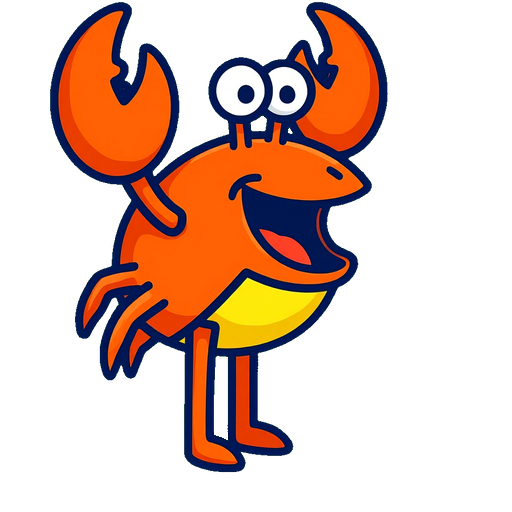
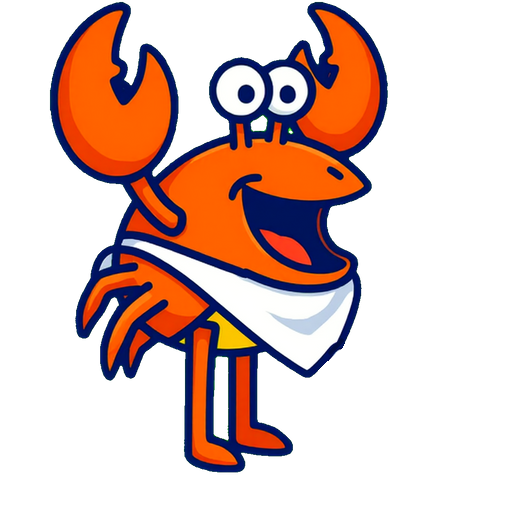
Gordeka : foulards de Kaio (variante 2) et Karramarro (bandana, nœud retiré à la main)
Claude-Session: https://claude.ai/code/session_01LXFHAN75rdxEcdsy5wKHqu

diff --git a/tools/gordeka/karramarro_noeud.py b/tools/gordeka/karramarro_noeud.py
@@ -1,0 +1,68 @@
+#!/usr/bin/env python3
+"""Karramarro (2026-10-20, Julien : « le foulard du 2 a un nœud bizarre ») : pixelforge ne corrige pas le
+nœud par retouche. On repart du foulard n° 2 (tools/rd/out/karramarro/gk2d/foulard/image_00.png), on
+efface le pendant et on dessine un petit nœud rond propre avec deux pointes, au trait du perso.
+
+  karramarro_noeud.py   → assets/gordeka/persos/karramarro/modele.png
+"""
+import os
+
+from PIL import Image, ImageDraw
+
+HERE = os.path.dirname(os.path.abspath(__file__))
+ROOT = os.path.normpath(os.path.join(HERE, "..", ".."))
+SRC = os.path.join(ROOT, "tools", "rd", "out", "karramarro", "gk2d", "foulard", "image_00.png")
+DST = os.path.join(ROOT, "assets", "gordeka", "persos", "karramarro", "modele.png")
+
+ZONE = (318, 336, 380, 424)          # zone nettoyée autour de l'ancien nœud (px de l'image 512)
+NOEUD = (337, 349)                   # coin du foulard, où l'on pose le nouveau nœud
+CONTOUR, BLANC, OMBRE = (0, 12, 64, 255), (255, 255, 255, 255), (196, 210, 230, 255)
+SUR = 8
+
+
+def hors_tissu(x, y):
+    """Sous le bord bas-droit du foulard ou à droite de son bord droit (relevés sur l'image)."""
+    bas = 373.0 - 0.9 * (x - 308.0)
+    droit = 352.0 - 0.55 * (y - 320.0)
+    return y > bas + 5.0 or x > droit + 5.0
+
+
+SANS_NOEUD = True                    # Julien : nœud bizarre ; une pointe de bandana propre se lit mieux
+
+
+def main():
+    im = Image.open(SRC).convert("RGBA")
+    px = im.load()
+    x0, y0, x1, y1 = ZONE
+    for y in range(y0, y1):
+        for x in range(x0, x1):
+            if hors_tissu(x, y):
+                px[x, y] = (0, 0, 0, 0)       # l'ancien pendant et sa boucle disparaissent
+    if SANS_NOEUD:
+        # Raccord du coin : un court trait entre la fin du bord droit et celle du bord bas.
+        k = Image.new("RGBA", ((x1 - x0) * SUR, (y1 - y0) * SUR), (0, 0, 0, 0))
+        ImageDraw.Draw(k).line([((329 - x0) * SUR, (354 - y0) * SUR), ((343 - x0) * SUR, (339 - y0) * SUR)],
+                               fill=CONTOUR, width=int(4.6 * SUR))
+        im.alpha_composite(k.resize((x1 - x0, y1 - y0), Image.LANCZOS), (x0, y0))
+        im.save(DST)
+        return
+    # Nœud rond et deux pointes, dessinés en ×SUR puis réduits (trait du perso, ~4,5 px).
+    c = 44
+    t = Image.new("RGBA", (c * SUR, c * SUR), (0, 0, 0, 0))
+    d = ImageDraw.Draw(t)
+    m, s = c * SUR // 2, SUR
+    tr = int(4.2 * s)
+    for pts in (((m - 4 * s, m + 2 * s), (m - 7 * s, m + 19 * s), (m + 3 * s, m + 8 * s)),
+                ((m + 4 * s, m + 2 * s), (m + 12 * s, m + 17 * s), (m - 1 * s, m + 9 * s))):
+        d.polygon(pts, fill=BLANC)
+        d.line(list(pts) + [pts[0]], fill=CONTOUR, width=tr, joint="curve")
+    r = 8 * s
+    d.ellipse((m - r, m - r, m + r, m + r), fill=BLANC, outline=CONTOUR, width=tr)
+    d.arc((m - r + tr, m - r + tr, m + r - tr, m + r - tr), 30, 150, fill=OMBRE, width=int(1.8 * s))
+    t = t.resize((c, c), Image.LANCZOS)
+    im.alpha_composite(t, (NOEUD[0] - c // 2, NOEUD[1] - c // 2))
+    im.save(DST)
+
+
+if __name__ == "__main__":
+    main()
